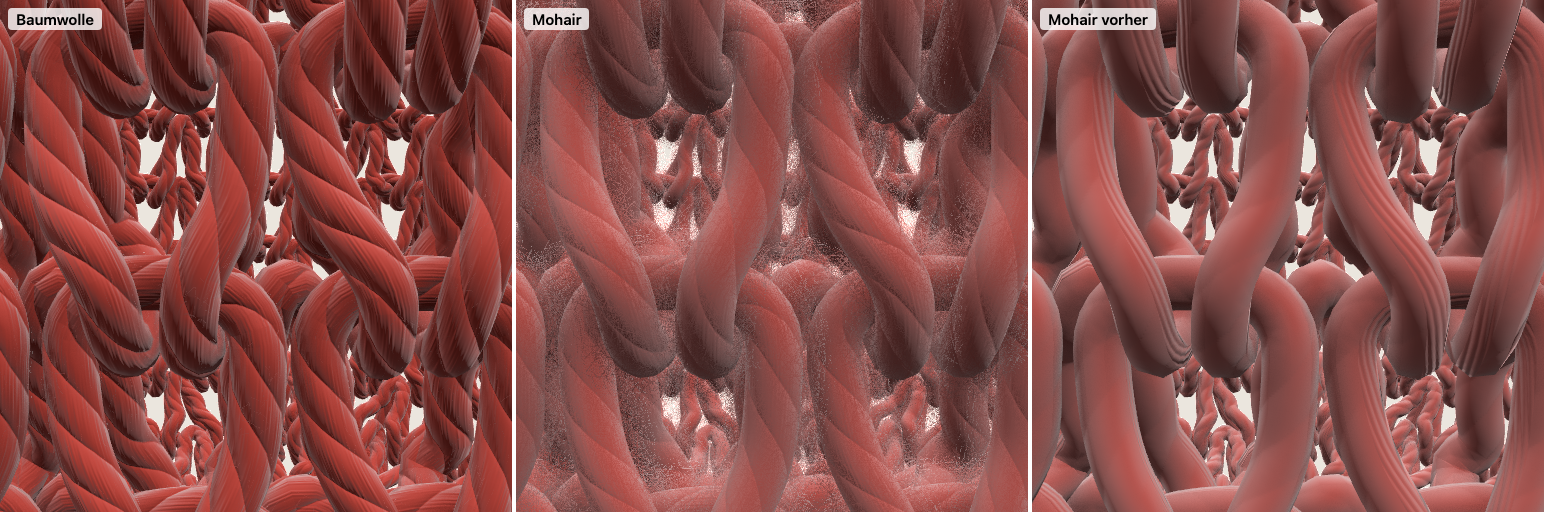
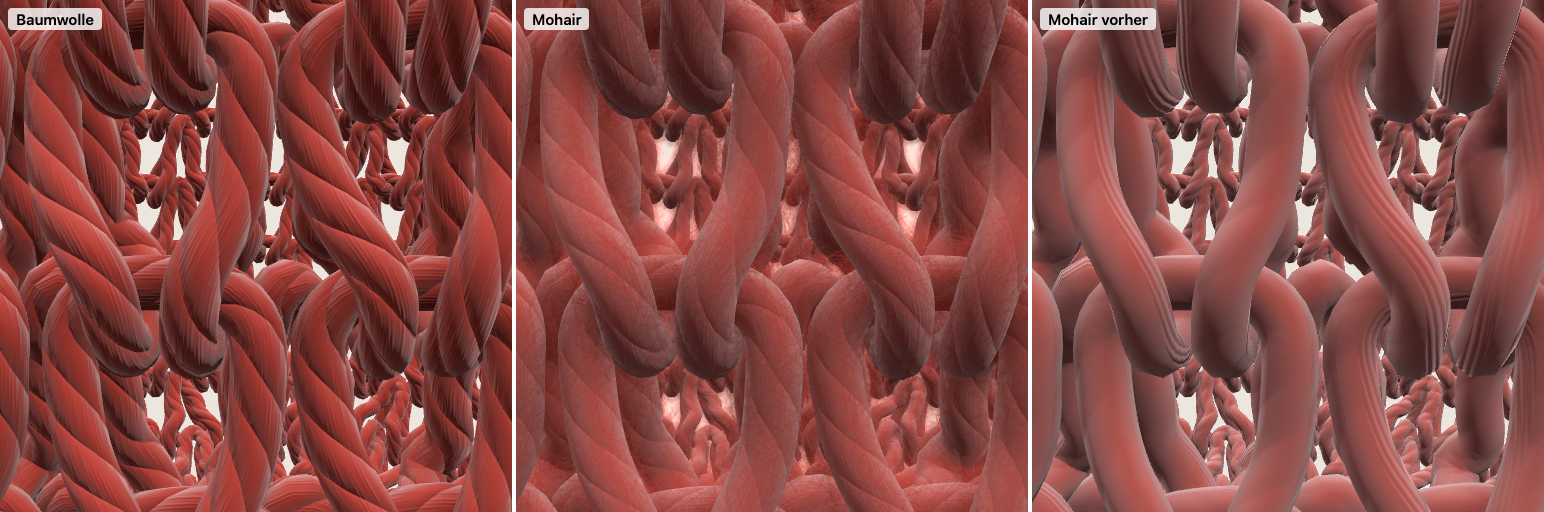
Doku: Nahaufnahmen und ganze Kugel neu, Speicher- und FPS-Werte nach den Fixes; views-Baselines erneuert (M5)

diff --git a/docs/evaluation/m5.md b/docs/evaluation/m5.md
@@ -77,6 +77,7 @@ Bildmitte gesetzt (vorher und nachher dieselbe Kamera), Garn 2 mm, Nadel 3,5 mm.
 ![Becher: vorher und nachher](m5-render-becher.png)
 ![Stb-Quadrat: vorher und nachher](m5-render-stb.png)
 ![Baumwolle und Mohair nachher, Mohair vorher](m5-render-mohair.png)
+![Ganze Kugel: Baumwolle und Mohair](m5-render-ganz.png)
 
 - **Ply:** prozedurale Normal-Map im Tangentialraum (`web/src/viewer/ply.ts`): vier runde Plies, Helixwinkel
   ≈ 37°, darauf feine Fasern längs des Garns; Stärke je Material (`MATERIAL_LOOK.normalScale`). Vorher lag die
@@ -85,14 +86,23 @@ Bildmitte gesetzt (vorher und nachher dieselbe Kamera), Garn 2 mm, Nadel 3,5 mm.
   kräftig (Kordel-Anmutung) – Kalibrierung gegen Fotos steht noch aus.
 - **Faserflaum** (`fuzz.ts`): bis zu sechs transluzente Schalen über der Tube, Fasern steigen von Schale zu Schale
   auf; Mohair deutlich (Halo, füllt die Lücken weich), Baumwolle dezent, Acryl aus. Schalter „Faserflaum“ im
-  Popover „Werkzeuge“. Mohair wirkt damit flauschig; der Kern zeigt die Plies noch, echtes Mohair verdeckt sie
-  stärker.
+  Popover „Werkzeuge“. Jede Schale trägt die Faserdeckung als Textur mit Mipmaps: aus der Nähe einzelne feine
+  Fasern, aus der Ferne ein durchscheinender Schleier statt Pixelrauschen; streifend gesehene Schalen werden
+  abgeschwächt, der Glanz der Fasern hat die Garnfarbe (vorher weiße Sprenkel auf rotem Mohair). In der Totale
+  bleibt ein heller, weicher Saum an der Silhouette (Schalen plus Sheen des Mohair-Kerns). Der Kern zeigt die
+  Plies noch, echtes Mohair verdeckt sie stärker.
 - **LOD** (`lod.ts`): Garn in Abschnitte zu 2 048 Punkten geteilt, je Abschnitt nach Garndicke in Gerätepixeln:
   ab 48 px 12 Seiten + volle Schalen, ab 10 px 8 Seiten + halbe Schalen auf gröberer Tube, darunter 4 Seiten,
   jeder zweite Punkt, ohne Flaum (Hysterese gegen Flackern). Stücke bis 100 000 Garnpunkte (≈ 800 Maschen)
-  bleiben immer mindestens „nah“. Abschnitte außerhalb des Bildes werden nicht gezeichnet.
+  bleiben immer mindestens „nah“. Abschnitte außerhalb des Bildes werden nicht gezeichnet und gehen auf die
+  gröbste Stufe; je Abschnitt bleiben nur die gezeigte Stufe und ihre Nachbarn gebaut, Schalentuben nur solange
+  Flaum gezeigt wird. Speicher der Tuben (CPU, die GPU hält dieselbe Menge) beim 4 896-Maschen-Stück entlang
+  Totale → Nahaufnahme iso/vorne/seitlich/oben → Totale: höchstens 446 MB (vorher bis 1 399 MB und nie
+  freigegeben; der Viewer vor Task 14 hielt konstant ≈ 378 MB).
 - **Determinismus:** keine Zufallszahlen ohne festen Seed; zwei Snapshots derselben Eingabe sind pixelgleich
   (`snapshot.e2e.ts`), das MCP-PNG (`session.py --require-png`, SwiftShader) ebenfalls byte-gleich.
+- **Version des Aussehens:** `data/render.json` (jetzt 2) steckt im Pfad der vom MCP gecachten PNGs
+  (`snapshots/r2/…`); nach einer Änderung am Look wird sie erhöht, sonst liefert der Cache alte Bilder.
 
 ### A9 Viewer-FPS
 
@@ -102,15 +112,15 @@ Chromium headless mit `--use-angle=metal`, ohne Bildratenbegrenzung (`--disable-
 
 | Material | Totale | Nahaufnahme (30 mm) |
 |---|---|---|
-| Baumwolle | 89,9 FPS | 64,5 FPS |
-| Mohair | 90,5 FPS | 43,5 FPS |
+| Baumwolle | 92,0 FPS | 63,8 FPS |
+| Mohair | 92,0 FPS | 42,4 FPS |
 
 Gegenprobe mit dem Produktions-Build (Docker, nginx auf :8080), gleiche Flags, Abstand zur Masche in Bildmitte:
 
 | Material | Totale | 30 mm | 90 mm | 180 mm |
 |---|---|---|---|---|
-| Baumwolle | 91,6 | 61,4 | 57,9 | 54,6 |
-| Mohair | 91,8 | 44,1 | 39,8 | 39,5 |
+| Baumwolle | 92,0 | 64,7 | 59,2 | 54,5 |
+| Mohair | 90,4 | 43,5 | 38,0 | 39,9 |
 
 Alle Werte ≥ 30 FPS: A9 Viewer erfüllt (auf M4; ältere M-Chips haben weniger Reserve, am knappsten Mohair
 bei mittlerem Abstand).

diff --git a/docs/evaluation/m5-notes.md b/docs/evaluation/m5-notes.md
@@ -38,6 +38,7 @@ Bildmitte gesetzt (vorher und nachher dieselbe Kamera), Garn 2 mm, Nadel 3,5 mm.
 ![Becher: vorher und nachher](m5-render-becher.png)
 ![Stb-Quadrat: vorher und nachher](m5-render-stb.png)
 ![Baumwolle und Mohair nachher, Mohair vorher](m5-render-mohair.png)
+![Ganze Kugel: Baumwolle und Mohair](m5-render-ganz.png)
 
 - **Ply:** prozedurale Normal-Map im Tangentialraum (`web/src/viewer/ply.ts`): vier runde Plies, Helixwinkel
   ≈ 37°, darauf feine Fasern längs des Garns; Stärke je Material (`MATERIAL_LOOK.normalScale`). Vorher lag die
@@ -46,14 +47,23 @@ Bildmitte gesetzt (vorher und nachher dieselbe Kamera), Garn 2 mm, Nadel 3,5 mm.
   kräftig (Kordel-Anmutung) – Kalibrierung gegen Fotos steht noch aus.
 - **Faserflaum** (`fuzz.ts`): bis zu sechs transluzente Schalen über der Tube, Fasern steigen von Schale zu Schale
   auf; Mohair deutlich (Halo, füllt die Lücken weich), Baumwolle dezent, Acryl aus. Schalter „Faserflaum“ im
-  Popover „Werkzeuge“. Mohair wirkt damit flauschig; der Kern zeigt die Plies noch, echtes Mohair verdeckt sie
-  stärker.
+  Popover „Werkzeuge“. Jede Schale trägt die Faserdeckung als Textur mit Mipmaps: aus der Nähe einzelne feine
+  Fasern, aus der Ferne ein durchscheinender Schleier statt Pixelrauschen; streifend gesehene Schalen werden
+  abgeschwächt, der Glanz der Fasern hat die Garnfarbe (vorher weiße Sprenkel auf rotem Mohair). In der Totale
+  bleibt ein heller, weicher Saum an der Silhouette (Schalen plus Sheen des Mohair-Kerns). Der Kern zeigt die
+  Plies noch, echtes Mohair verdeckt sie stärker.
 - **LOD** (`lod.ts`): Garn in Abschnitte zu 2 048 Punkten geteilt, je Abschnitt nach Garndicke in Gerätepixeln:
   ab 48 px 12 Seiten + volle Schalen, ab 10 px 8 Seiten + halbe Schalen auf gröberer Tube, darunter 4 Seiten,
   jeder zweite Punkt, ohne Flaum (Hysterese gegen Flackern). Stücke bis 100 000 Garnpunkte (≈ 800 Maschen)
-  bleiben immer mindestens „nah“. Abschnitte außerhalb des Bildes werden nicht gezeichnet.
+  bleiben immer mindestens „nah“. Abschnitte außerhalb des Bildes werden nicht gezeichnet und gehen auf die
+  gröbste Stufe; je Abschnitt bleiben nur die gezeigte Stufe und ihre Nachbarn gebaut, Schalentuben nur solange
+  Flaum gezeigt wird. Speicher der Tuben (CPU, die GPU hält dieselbe Menge) beim 4 896-Maschen-Stück entlang
+  Totale → Nahaufnahme iso/vorne/seitlich/oben → Totale: höchstens 446 MB (vorher bis 1 399 MB und nie
+  freigegeben; der Viewer vor Task 14 hielt konstant ≈ 378 MB).
 - **Determinismus:** keine Zufallszahlen ohne festen Seed; zwei Snapshots derselben Eingabe sind pixelgleich
   (`snapshot.e2e.ts`), das MCP-PNG (`session.py --require-png`, SwiftShader) ebenfalls byte-gleich.
+- **Version des Aussehens:** `data/render.json` (jetzt 2) steckt im Pfad der vom MCP gecachten PNGs
+  (`snapshots/r2/…`); nach einer Änderung am Look wird sie erhöht, sonst liefert der Cache alte Bilder.
 
 ### A9 Viewer-FPS
 
@@ -63,15 +73,15 @@ Chromium headless mit `--use-angle=metal`, ohne Bildratenbegrenzung (`--disable-
 
 | Material | Totale | Nahaufnahme (30 mm) |
 |---|---|---|
-| Baumwolle | 89,9 FPS | 64,5 FPS |
-| Mohair | 90,5 FPS | 43,5 FPS |
+| Baumwolle | 92,0 FPS | 63,8 FPS |
+| Mohair | 92,0 FPS | 42,4 FPS |
 
 Gegenprobe mit dem Produktions-Build (Docker, nginx auf :8080), gleiche Flags, Abstand zur Masche in Bildmitte:
 
 | Material | Totale | 30 mm | 90 mm | 180 mm |
 |---|---|---|---|---|
-| Baumwolle | 91,6 | 61,4 | 57,9 | 54,6 |
-| Mohair | 91,8 | 44,1 | 39,8 | 39,5 |
+| Baumwolle | 92,0 | 64,7 | 59,2 | 54,5 |
+| Mohair | 90,4 | 43,5 | 38,0 | 39,9 |
 
 Alle Werte ≥ 30 FPS: A9 Viewer erfüllt (auf M4; ältere M-Chips haben weniger Reserve, am knappsten Mohair
 bei mittlerem Abstand).
